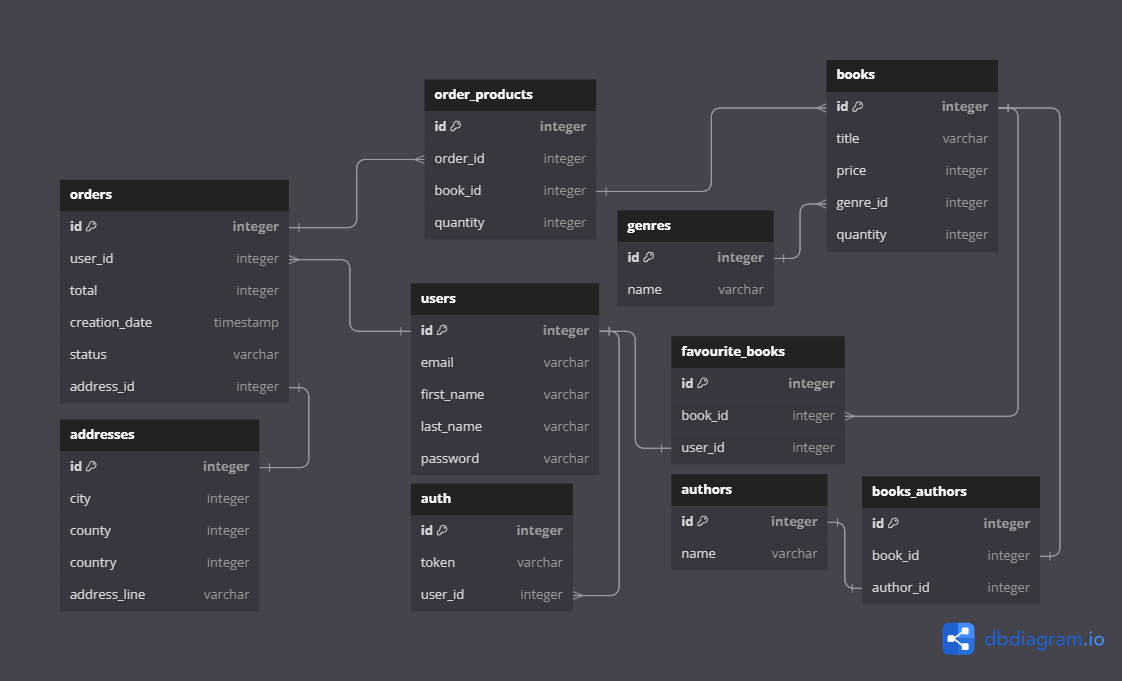
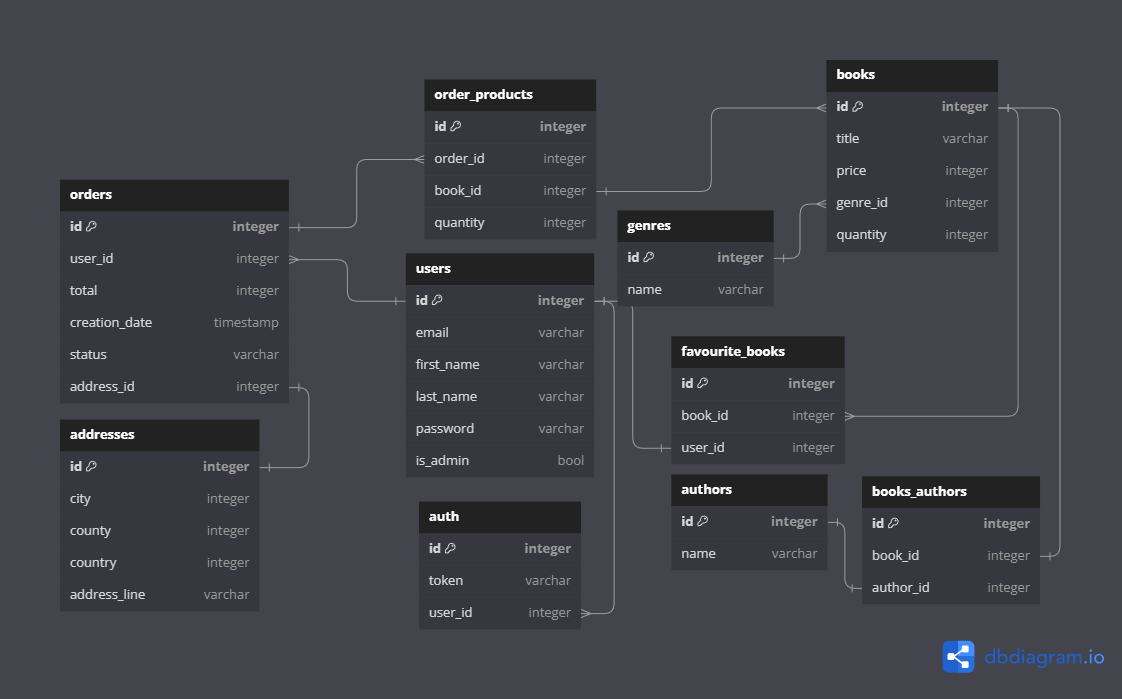
added admin field

diff --git a/user-management-api/src/orders/orders.service.ts b/user-management-api/src/orders/orders.service.ts
@@ -40,7 +40,9 @@ export class OrdersService {
         order: currentOrder,
       });
     }
-
-    console.log(await this.ordersRepository.findBy({ id: currentOrder.id }));
   }
+
+  async prepareOrder() {}
+  async finishOrder() {}
+  async cancelOrder() {}
 }

diff --git a/user-management-api/src/users/entities/user.entity.ts b/user-management-api/src/users/entities/user.entity.ts
@@ -20,6 +20,9 @@ export class User {
   @Column({ nullable: false })
   password: string;
 
+  @Column({ name: 'is_admin', nullable: false })
+  isAdmin: boolean;
+
   @OneToMany((type) => Auth, (token) => token.user)
   authTokens: Auth[];
 

diff --git a/user-management-api/src/users/dtos/user.dto.ts b/user-management-api/src/users/dtos/user.dto.ts
@@ -15,11 +15,5 @@ export class UserDto {
   lastName: string;
 
   @Expose()
-  pictureUrl: string;
-
-  @Expose()
-  drivingLicenseExpiryDate: Date;
-
-  @Expose()
   password: string;
 }

diff --git a/user-management-api/src/users/dtos/user-response.dto.ts b/user-management-api/src/users/dtos/user-response.dto.ts
@@ -12,8 +12,5 @@ export class UserResponseDto {
   lastName: string;
 
   @Expose()
-  pictureUrl: string;
-
-  @Expose()
-  drivingLicenseExpiryDate: Date;
+  isAdmin: string;
 }
